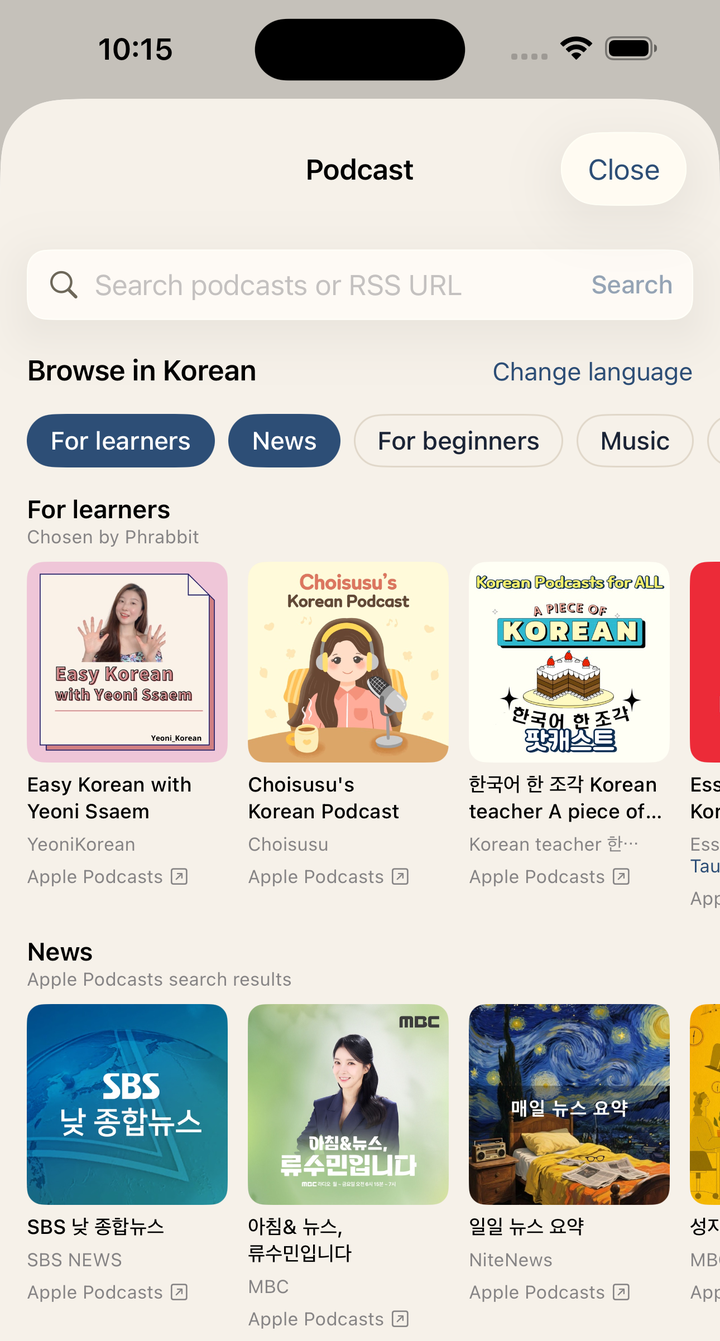
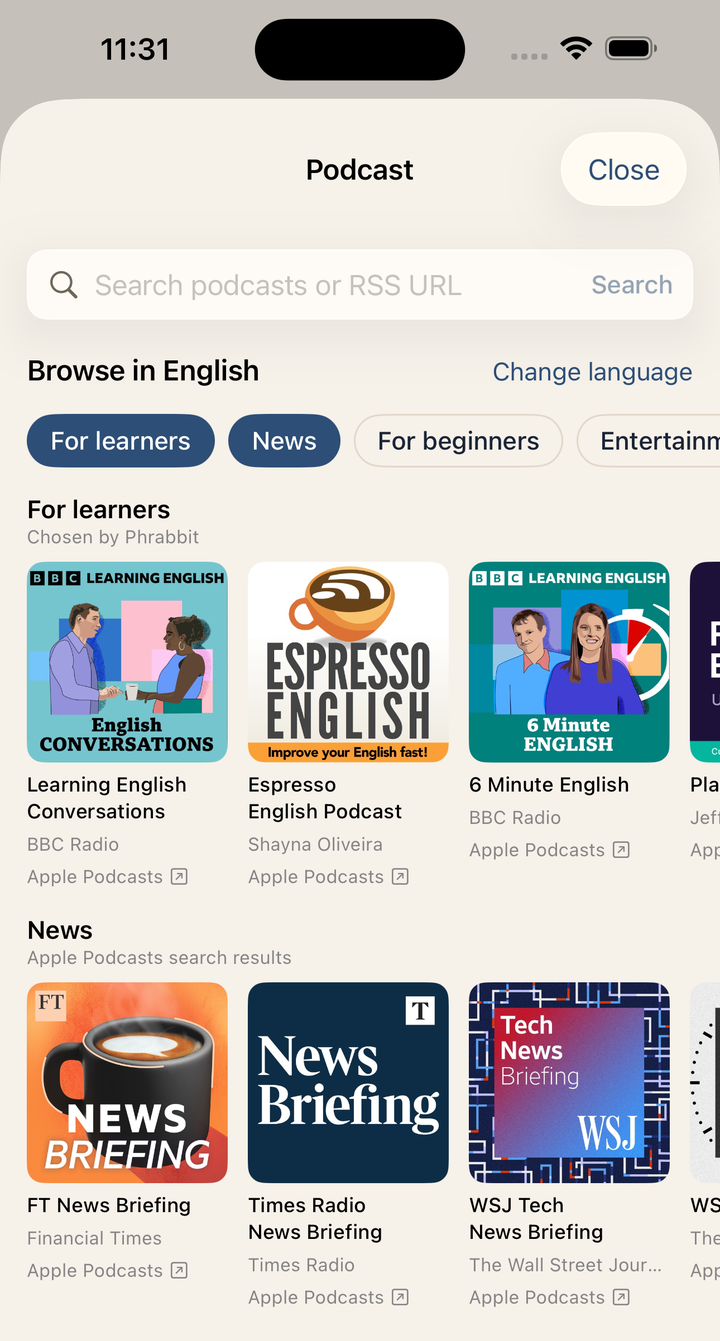
docs: one English screenshot set again, and browse in English
The manual has always shipped English captures shared by every locale, with
the note at the top of each page explaining it. Splitting the refreshed
captures into images/iphone/en/ broke that: ko, ja and zh kept screens that
no longer exist. The add menu, bookmark list, podcast and Settings captures
are back at their shared paths, the new Home replaces every locale copy of
it, and en.md points at the shared files again.

24-podcast-browse is re-shot with English as the practice language — an
English-language manual should not open on Korean shows.

using Claude Opus 5

diff --git a/en.md b/en.md
@@ -106,7 +106,7 @@ Deleting an item also removes its waveform cache, bookmarks, subtitles, and save
 
 Tap the plus button at the top right of Home to open the add menu.
 
-![Add menu](images/iphone/en/11-add-menu.png)
+![Add menu](images/iphone/11-add-menu.png)
 *▲ Menu for adding files, music, YouTube links, and podcasts*
 
 ### 3-1. Add an Audio File
@@ -241,7 +241,7 @@ Phrabbit creates the automatic name from the file title and range length. The sa
 ### 6-2. Bookmark List
 Tap the list button to open the current file's bookmarks. Tap a bookmark to restore that range as A/B and practice it right away.
 
-![Bookmarks and My Recordings](images/iphone/en/14-bookmarks-recordings.png)
+![Bookmarks and My Recordings](images/iphone/14-bookmarks-recordings.png)
 *▲ Bookmark list with the Bookmarks / My Recordings switch*
 
 When both bookmarks and recordings exist, the list uses a **Bookmarks / My Recordings** switch so each list stays easy to reach. When there are at least two bookmarks, a **Play All** menu may appear. It can play several bookmarks in order and repeat each bookmark 1, 2, or 3 times.
@@ -617,7 +617,7 @@ Tap a channel to open its episode list.
 | **Creator transcript** | Official text-only material is available |
 | No badge | No official transcript |
 
-![Podcast episode with a Creator captions badge](images/iphone/en/17-podcast-script.png)
+![Podcast episode with a Creator captions badge](images/iphone/17-podcast-script.png)
 *▲ Episodes with a Creator captions badge can import official captions*
 
 Episodes with the **Creator captions** badge can import the podcast's official captions without running STT again. This is usually more accurate than automatic recognition and requires less waiting, so those episodes are recommended first for study material.
@@ -628,7 +628,7 @@ Besides pasting an RSS URL into the search field, you can expand **Add via RSS U
 ### 13-6. Downloads and Cellular Data
 The default setting is **Download over Wi-Fi only**. If you allow cellular downloads, a confirmation may appear before downloading a large episode.
 
-![Podcast download status](images/iphone/en/18-podcast-downloads.png)
+![Podcast download status](images/iphone/18-podcast-downloads.png)
 *▲ Episode list showing not-downloaded and downloaded states*
 
 Tap an episode to start downloading. While it downloads, tap the stop square inside the progress ring to cancel. If a clock indicates that the episode is waiting for Wi-Fi, tap the episode again to remove it from the queue. Tap an episode with a check mark to open the player.
@@ -657,7 +657,7 @@ Tap a Focused Segments or Most Practiced item to return to the original material
 ### 14-2. Settings
 Tap **More** at the top right of Home, then choose **Settings**.
 
-![Settings](images/iphone/en/19-settings.png)
+![Settings](images/iphone/19-settings.png)
 *▲ Settings for background playback, downloads, learning stats reset, and support*
 
 You can manage:
